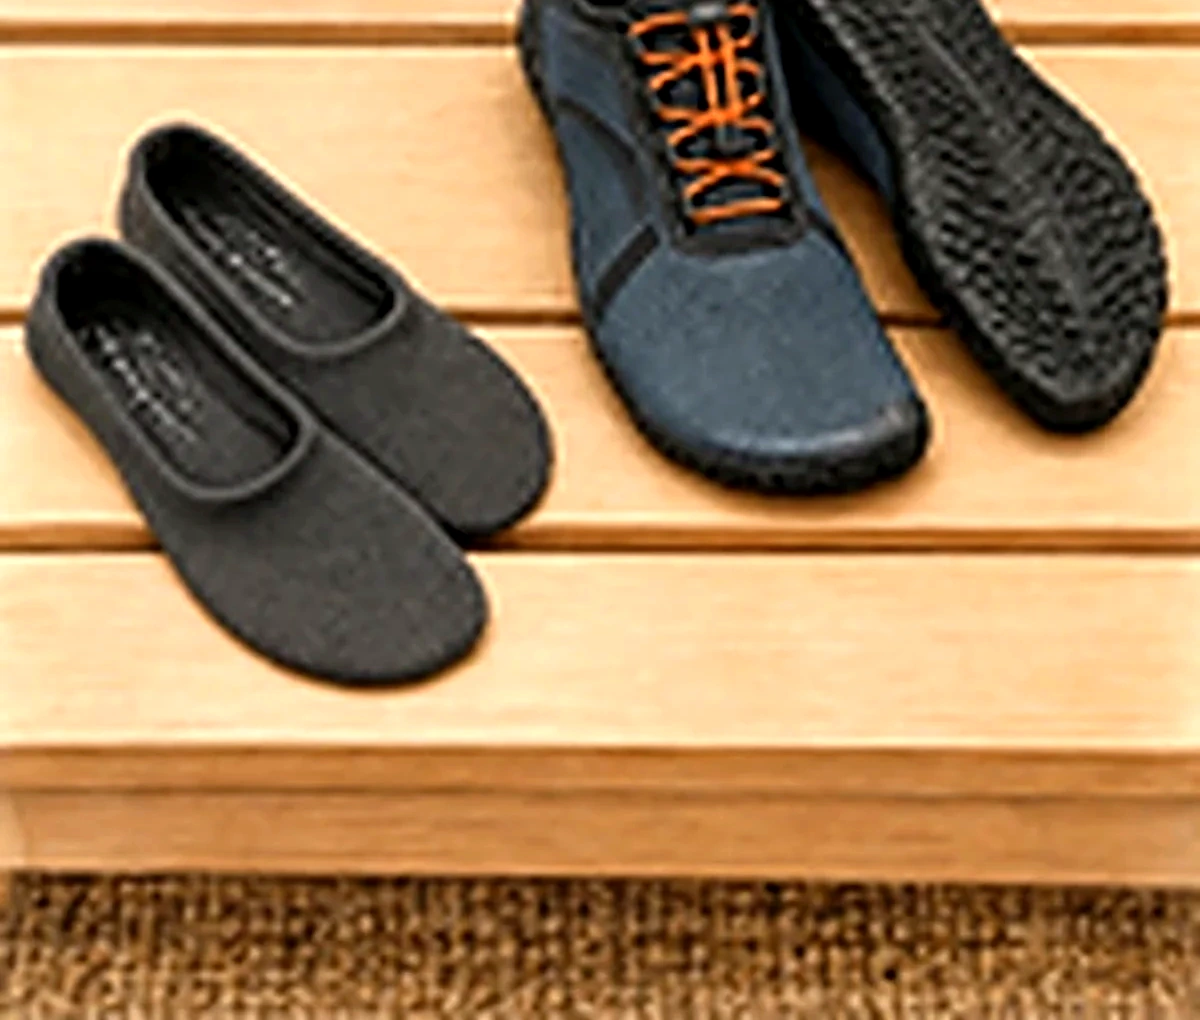
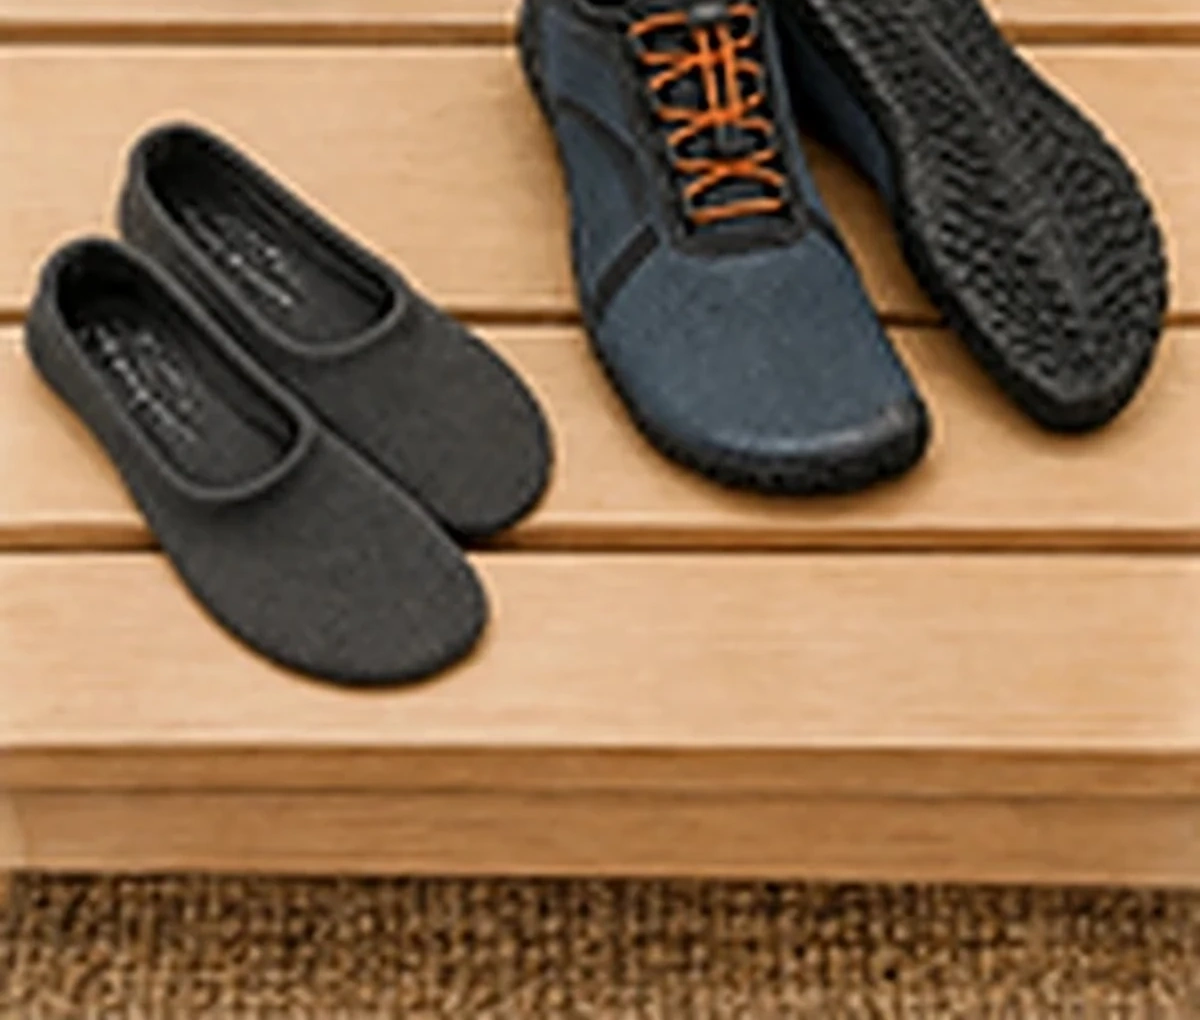
Ritual: vuelven las fotos originales de mayor calidad, con más luz
Claude-Session: https://claude.ai/code/session_01NkzjF2cUTRbCbWbGi42cEs

diff --git a/index.html b/index.html
@@ -1267,10 +1267,10 @@ html,body{overflow-x:clip}
     <h2 class="title sa-h2">Vienes con lo puesto.<span>Sales listo para tu día.</span></h2>
     <p class="lead sa-lead">Tú traes las ganas. Del resto nos ocupamos nosotros.</p>
     <div class="sa-grid">
-      <article class="sa-card sa-pies"><div class="sa-ph sa-alt"><img class="sa-a" src="fotos/suela-calle.webp?v=1" width="1200" height="1500" alt="Suela de un zapato de calle con colillas, aceite, bacterias y restos de excrementos" loading="lazy" decoding="async"><img class="sa-b" src="fotos/ritual-1.webp?v=2" width="1200" height="1020" alt="Calcetines de pilates y zapatillas minimalistas de uso exclusivo en sala sobre un banco de madera" loading="lazy" decoding="async"></div><div class="sa-txt"><h3>La calle se queda en el baúl</h3><p>Al llegar, guardas tus zapatos en el baúl de la entrada. Entrenas en calcetines o con barefoot de sala: más higiene y unos pies más fuertes.</p><button type="button" class="sa-suela" data-suela="fotos/suela-sucia.webp?v=2">¿Qué traes en la suela? <b>Míralo →</b></button></div></article>
-      <article class="sa-card sa-cafe"><div class="sa-ph"><img src="fotos/ritual-2.webp?v=2" width="1200" height="1600" alt="Taza de café recién hecho junto a una cafetera profesional" loading="lazy" decoding="async"><div class="sa-steam sa-bg" aria-hidden="true"><i></i><i></i><i></i><i></i><i></i></div><div class="sa-steam" aria-hidden="true"><i></i><i></i><i></i><i></i><i></i><i></i></div></div><div class="sa-txt"><h3>Tu café, recién hecho</h3><p>Te lo preparamos al llegar. Si lo prefieres, agua, una infusión o un chocolate.</p></div></article>
-      <article class="sa-card"><div class="sa-ph"><img src="fotos/ritual-3.webp?v=2" width="900" height="1200" alt="Estantería con toallas limpias para la sala y toallas blancas en el aseo" loading="lazy" decoding="async"></div><div class="sa-txt"><h3>Tu toalla, limpia cada día</h3><p>Lavada a diario y guardada en un armario climatizado.</p></div></article>
-      <article class="sa-card"><div class="sa-ph"><img src="fotos/ritual-4.webp?v=2" width="900" height="1200" alt="Ducha con toallas, champú, gel y desodorante" loading="lazy" decoding="async"></div><div class="sa-txt"><h3>Una ducha con todo listo</h3><p>Toalla, champú, gel y desodorante. Solo tienes que entrar.</p></div></article>
+      <article class="sa-card sa-pies"><div class="sa-ph sa-alt"><img class="sa-a" src="fotos/suela-calle.webp?v=1" width="1200" height="1500" alt="Suela de un zapato de calle con colillas, aceite, bacterias y restos de excrementos" loading="lazy" decoding="async"><img class="sa-b" src="fotos/ritual-1.webp?v=3" width="1200" height="1020" alt="Calcetines de pilates y zapatillas minimalistas de uso exclusivo en sala sobre un banco de madera" loading="lazy" decoding="async"></div><div class="sa-txt"><h3>La calle se queda en el baúl</h3><p>Al llegar, guardas tus zapatos en el baúl de la entrada. Entrenas en calcetines o con barefoot de sala: más higiene y unos pies más fuertes.</p><button type="button" class="sa-suela" data-suela="fotos/suela-sucia.webp?v=2">¿Qué traes en la suela? <b>Míralo →</b></button></div></article>
+      <article class="sa-card sa-cafe"><div class="sa-ph"><img src="https://d8j0ntlcm91z4.cloudfront.net/user_3LKdWAwD4AuD7se4yAJwOUo08PC/hf_20261119_184341_bd212c0e-9466-4832-bdb4-b334db8f39eb.png" width="1200" height="1600" alt="Taza de café recién hecho junto a una cafetera profesional" loading="lazy" decoding="async"><div class="sa-steam sa-bg" aria-hidden="true"><i></i><i></i><i></i><i></i><i></i></div><div class="sa-steam" aria-hidden="true"><i></i><i></i><i></i><i></i><i></i><i></i></div></div><div class="sa-txt"><h3>Tu café, recién hecho</h3><p>Te lo preparamos al llegar. Si lo prefieres, agua, una infusión o un chocolate.</p></div></article>
+      <article class="sa-card"><div class="sa-ph"><img src="https://d8j0ntlcm91z4.cloudfront.net/user_3LKdWAwD4AuD7se4yAJwOUo08PC/hf_20261119_184601_430fff5d-307e-4201-a40b-a38df4e8a00f.png" width="900" height="1200" alt="Estantería con toallas limpias para la sala y toallas blancas en el aseo" loading="lazy" decoding="async"></div><div class="sa-txt"><h3>Tu toalla, limpia cada día</h3><p>Lavada a diario y guardada en un armario climatizado.</p></div></article>
+      <article class="sa-card"><div class="sa-ph"><img src="https://d8j0ntlcm91z4.cloudfront.net/user_3LKdWAwD4AuD7se4yAJwOUo08PC/hf_20261119_184648_d6999514-35e3-4082-adb9-6d0b098674cb.png" width="900" height="1200" alt="Ducha con toallas, champú, gel y desodorante" loading="lazy" decoding="async"></div><div class="sa-txt"><h3>Una ducha con todo listo</h3><p>Toalla, champú, gel y desodorante. Solo tienes que entrar.</p></div></article>
     </div>
   </div></section>
   <section class="dark-sec meet" id="matias"><div class="wrap">
@@ -3195,7 +3195,10 @@ window.addEventListener('load',eq);window.addEventListener('resize',eq);window.a
 #site #solo-aqui .sa-ph{position:relative;aspect-ratio:4/5;overflow:hidden;background:#0b0a09;
   -webkit-mask-image:linear-gradient(180deg,#000 0,#000 72%,rgba(0,0,0,.55) 88%,transparent 100%);mask-image:linear-gradient(180deg,#000 0,#000 72%,rgba(0,0,0,.55) 88%,transparent 100%)}
 #site #solo-aqui .sa-ph::after{content:"";position:absolute;inset:0;z-index:2;pointer-events:none;box-shadow:inset 0 0 48px 18px #0b0a09}
-#site #solo-aqui .sa-card .sa-ph img{position:absolute;inset:0;width:100%;height:100%;object-fit:cover;transform:scale(1.01);transition:transform 1.6s cubic-bezier(.2,.7,.2,1);z-index:0;-webkit-mask-image:none!important;mask-image:none!important;filter:none!important}
+#site #solo-aqui .sa-card .sa-ph img{position:absolute;inset:0;width:100%;height:100%;object-fit:cover;transform:scale(1.01);transition:transform 1.6s cubic-bezier(.2,.7,.2,1);z-index:0;-webkit-mask-image:none!important;mask-image:none!important;filter:brightness(1.16) contrast(1.06) saturate(1.06)!important}
+#site #solo-aqui .sa-cafe .sa-ph img{filter:brightness(1.22) contrast(1.14) saturate(1.05)!important}
+#site #solo-aqui .sa-pies .sa-a{filter:none!important}
+#site #solo-aqui .sa-pies .sa-b{filter:brightness(1.2) contrast(1.06) saturate(1.06)!important}
 #site #solo-aqui .sa-card:hover .sa-ph img{transform:scale(1.05)}
 #site #solo-aqui .sa-pies .sa-b{object-position:30% 50%!important}
 #site #solo-aqui .sa-suela{margin-top:16px}
